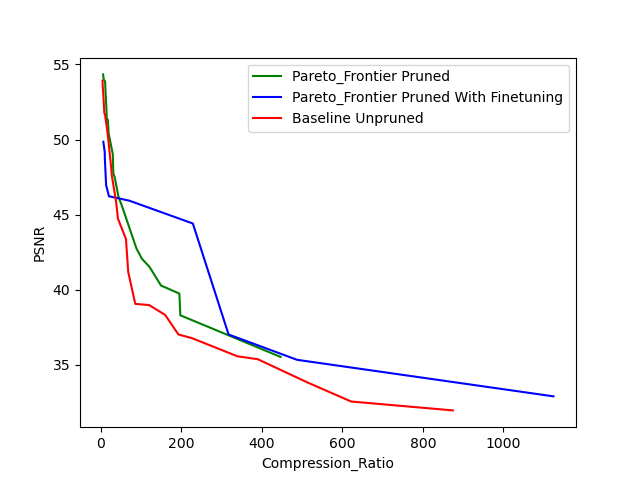
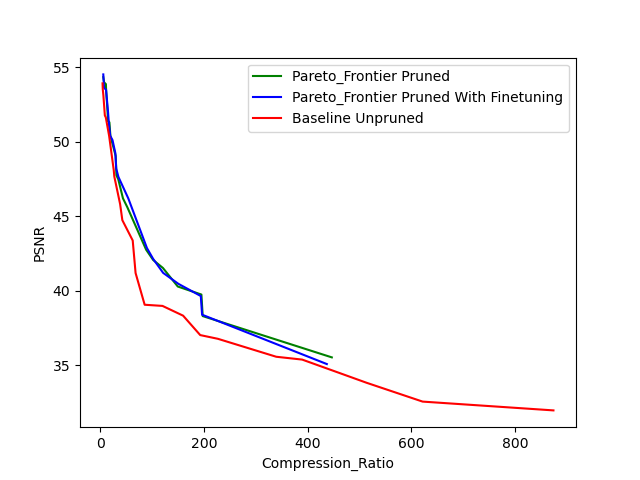
- Add Finetuning Plots

diff --git a/visualization/generate_plot.py b/visualization/generate_plot.py
@@ -11,26 +11,17 @@ from itertools import product
 
 
 def generateParetoFrontier():
-    BASENAME = 'experiments/NAS/mhd_p_Smallify/mhd_p_'
+    BASENAME = 'experiments/NAS/mhd_p_MaskStraightThrough/mhd_p_'
     experimentNames = np.linspace(0, 79, 80, dtype=int)
     #experimentNames = np.delete(experimentNames, 5, axis=0)
     #experimentNames = np.delete(experimentNames, 5, axis=0)
 
-    BASENAMEOther = 'experiments/NAS/mhd_p_Smallify_WithFinetuning/mhd_p_'
-    experimentNamesOther = np.linspace(0, 49, 50, dtype=int)
+    BASENAMEOther = 'experiments/NAS/mhd_p_MaskStraightThrough_Pateto_Finetuning/mhd_p_'
+    #experimentNamesOther = np.linspace(0, 49, 50, dtype=int)
+    experimentNamesOther = [14,16,31,34,36,37,39,42,50,53,55,56,58,59,63,64,66,67,70,75,76]
 
     BASENAMEUnpruned = 'experiments/NAS/mhd_p_baseline/mhd_p_'
     experimentNamesUnpruned = np.linspace(0, 49, 60, dtype=int)
-    #experimentNamesUnpruned = [221, 227, 246, 299, 327, 393, 503, 628]
-    #experimentNamesUnpruned = [122, 135, 157, 198, 225, 292, 386, 534, 602, 781, 984, 1087]
-
-    #BASENAMEUnpruned = 'experiments/diff_comp_rates/mhd_p_Baselines/100/mhd_p_'
-    #experimentNamesUnpruned = [102, 144, 166, 211, 253, 268, 283, 293, 325, 363, 414, 442, 474, 512, 617, 638,
-    #                           797, 895]
-    #experimentNamesUnpruned = [210, 225, 235, 244, 296, 388, 463, 546, 596, 770, 931, 1251]
-    #BASENAMEUnpruned = 'experiments/diff_comp_rates/mhd_p_Baselines/100_ForVariational/mhd_p_'
-    #experimentNamesUnpruned = [105, 194, 283, 303, 311, 371, 468, 511, 603, 715, 808, 945, 1354]
-
 
     InfoName = 'info.txt'
     configName = 'config.txt'
@@ -114,7 +105,7 @@ def generateParetoFrontier():
     #for p in pf_X:
     #    print(p)
 
-    filepath = 'plots/' + 'mhd_p_' + 'Smallify_Finetuning' + '.png'
+    filepath = 'plots/' + 'mhd_p_' + 'MaskStraightThrough_Finetuning' + '.png'
     plt.savefig(filepath)
 
 

diff --git a/visualization/trigger_experiments.py b/visualization/trigger_experiments.py
@@ -5,10 +5,10 @@ import visualization.pltUtils as pu
 
 
 def neurcompRunsDiffComprRatesFromFrontier():
-    BASENAME = 'experiments/NAS/mhd_p_Smallify/mhd_p_'
+    BASENAME = 'experiments/NAS/mhd_p_MaskStraightThrough/mhd_p_'
     experimentNames = np.linspace(0, 79, 80, dtype=int)
 
-    new_base_dir = '/experiments/NAS/mhd_p_Smallify_Pateto_Finetuning/'
+    new_base_dir = '/experiments/NAS/mhd_p_MaskStraightThrough_Pateto_Finetuning/'
 
     InfoName = 'info.txt'
     configName = 'config.txt'
